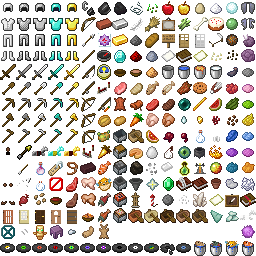
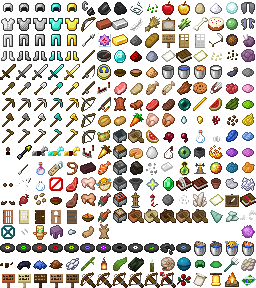
support new texture maps

diff --git a/Minecraft.Client/PreStitchedTextureMap.cpp b/Minecraft.Client/PreStitchedTextureMap.cpp
@@ -41,7 +41,44 @@ void PreStitchedTextureMap::stitch()
 		animatedStitchedTexture->freeFrameTextures();
 	}
 
-	loadUVs();
+	wstring filename = name + extension;
+
+	TexturePack *texturePack = Minecraft::GetInstance()->skins->getSelected();
+	wstring drive = L"";
+
+	// 4J-PB - need to check for BD patched files
+#ifdef __PS3__
+	const char *pchName=wstringtofilename(filename);
+	if(app.GetBootedFromDiscPatch() && app.IsFileInPatchList(pchName))
+	{
+		if(texturePack->hasFile(L"res/" + filename,false))
+		{
+			drive = texturePack->getPath(true,pchName);
+		}
+		else
+		{
+			drive = Minecraft::GetInstance()->skins->getDefault()->getPath(true,pchName);
+			texturePack = Minecraft::GetInstance()->skins->getDefault();
+		}
+	}
+	else
+#endif
+	if(texturePack->hasFile(L"res/" + filename,false))
+	{
+		drive = texturePack->getPath(true);
+	}
+	else
+	{
+		drive = Minecraft::GetInstance()->skins->getDefault()->getPath(true);
+		texturePack = Minecraft::GetInstance()->skins->getDefault();
+	}
+
+	BufferedImage *image = texturePack->getImageResource(filename, false, true, drive);
+	if (!image) return;
+	int imgHeight = image->getHeight();
+	int imgWidth = image->getWidth();
+
+	loadUVs(imgWidth, imgHeight);
 
 	if (iconType == Icon::TYPE_TERRAIN)
 	{
@@ -76,9 +113,6 @@ void PreStitchedTextureMap::stitch()
 	animatedTextures.clear();
 
 	// Create the final image
-	wstring filename = name + extension;
-
-	TexturePack *texturePack = Minecraft::GetInstance()->skins->getSelected();
 	//try {
 	int mode = Texture::TM_DYNAMIC;
 	int clamp = Texture::WM_WRAP; // 4J Stu - Don't clamp as it causes issues with how we signal non-mipmmapped textures to the pixel shader //Texture::WM_CLAMP;
@@ -86,40 +120,10 @@ void PreStitchedTextureMap::stitch()
 	int magFilter = Texture::TFLT_NEAREST;
 
 	MemSect(32);
-	wstring drive = L"";
 
-	// 4J-PB - need to check for BD patched files
-#ifdef __PS3__
-	const char *pchName=wstringtofilename(filename);
-	if(app.GetBootedFromDiscPatch() && app.IsFileInPatchList(pchName))
-	{
-		if(texturePack->hasFile(L"res/" + filename,false))
-		{
-			drive = texturePack->getPath(true,pchName);
-		}
-		else
-		{
-			drive = Minecraft::GetInstance()->skins->getDefault()->getPath(true,pchName);
-			texturePack = Minecraft::GetInstance()->skins->getDefault();
-		}
-	}
-	else
-#endif
-	if(texturePack->hasFile(L"res/" + filename,false))
-	{
-		drive = texturePack->getPath(true);
-	}
-	else
-	{
-		drive = Minecraft::GetInstance()->skins->getDefault()->getPath(true);
-		texturePack = Minecraft::GetInstance()->skins->getDefault();
-	}
-
-	//BufferedImage *image = new BufferedImage(texturePack->getResource(L"/" + filename),false,true,drive); //ImageIO::read(texturePack->getResource(L"/" + filename));
-	BufferedImage *image = texturePack->getImageResource(filename, false, true, drive);
 	MemSect(0);
-	int height = image->getHeight();
-	int width = image->getWidth();
+	int height = imgHeight;
+	int width = imgWidth;
 
 	if(stitchResult != nullptr)
 	{
@@ -311,7 +315,7 @@ Icon *PreStitchedTextureMap::getMissingIcon()
 #define ADD_ICON_WITH_NAME(row, column, name, filename) (texturesByName[name] =	new SimpleIcon(name,filename,horizRatio*column,vertRatio*row,horizRatio*(column+1),vertRatio*(row+1)));
 #define ADD_ICON_SIZE(row, column, name, height, width) (texturesByName[name] =	new SimpleIcon(name,name,horizRatio*column,vertRatio*row,horizRatio*(column+width),vertRatio*(row+height)));
 
-void PreStitchedTextureMap::loadUVs()
+void PreStitchedTextureMap::loadUVs(int width, int height)
 {
 	if(!texturesByName.empty())
 	{
@@ -329,8 +333,8 @@ void PreStitchedTextureMap::loadUVs()
 
 	if(iconType != Icon::TYPE_TERRAIN)
 	{
-		float horizRatio = 1.0f/16.0f;
-		float vertRatio = 1.0f/16.0f;
+		float horizRatio = 16.0f / (float)width;
+		float vertRatio = 16.0f / (float)height;
 
 		ADD_ICON(0,		0,	L"helmetCloth")
 		ADD_ICON(0,		1,	L"helmetChain")
@@ -658,8 +662,8 @@ void PreStitchedTextureMap::loadUVs()
 	}
 	else
 	{
-		float horizRatio = 1.0f/16.0f;
-		float vertRatio = 1.0f/32.0f;
+		float horizRatio = 16.0f / (float)width;
+		float vertRatio = 16.0f / (float)height;
 
 		ADD_ICON(0,		0,	L"grass_top")
 		texturesByName[L"grass_top"]->setFlags(Icon::IS_GRASS_TOP);			// 4J added for faster determination of texture type in tesselation

diff --git a/Minecraft.Client/Texture.cpp b/Minecraft.Client/Texture.cpp
@@ -134,7 +134,7 @@ void Texture::_init(const wstring &name, int mode, int width, int height, int de
 				for(unsigned int level = 1; level < m_iMipLevels; ++level)
 				{
 					int ww = width >> level;
-					int hh = height >> height;
+					int hh = height >> level;
 
 					byteArray tempBytes = byteArray(ww * hh * depth * 4);
 					for (int index = 0; index < tempBytes.length; index++)

diff --git a/Minecraft.Client/PreStitchedTextureMap.h b/Minecraft.Client/PreStitchedTextureMap.h
@@ -30,7 +30,7 @@ private:
 	Texture *stitchResult;
 	vector<StitchedTexture *> animatedTextures; // = new ArrayList<StitchedTexture>();
 
-	void loadUVs();
+	void loadUVs(int width, int height);
 public:
 	PreStitchedTextureMap(int type, const wstring &name, const wstring &path, BufferedImage *missingTexture, bool mipMap = false);
 
